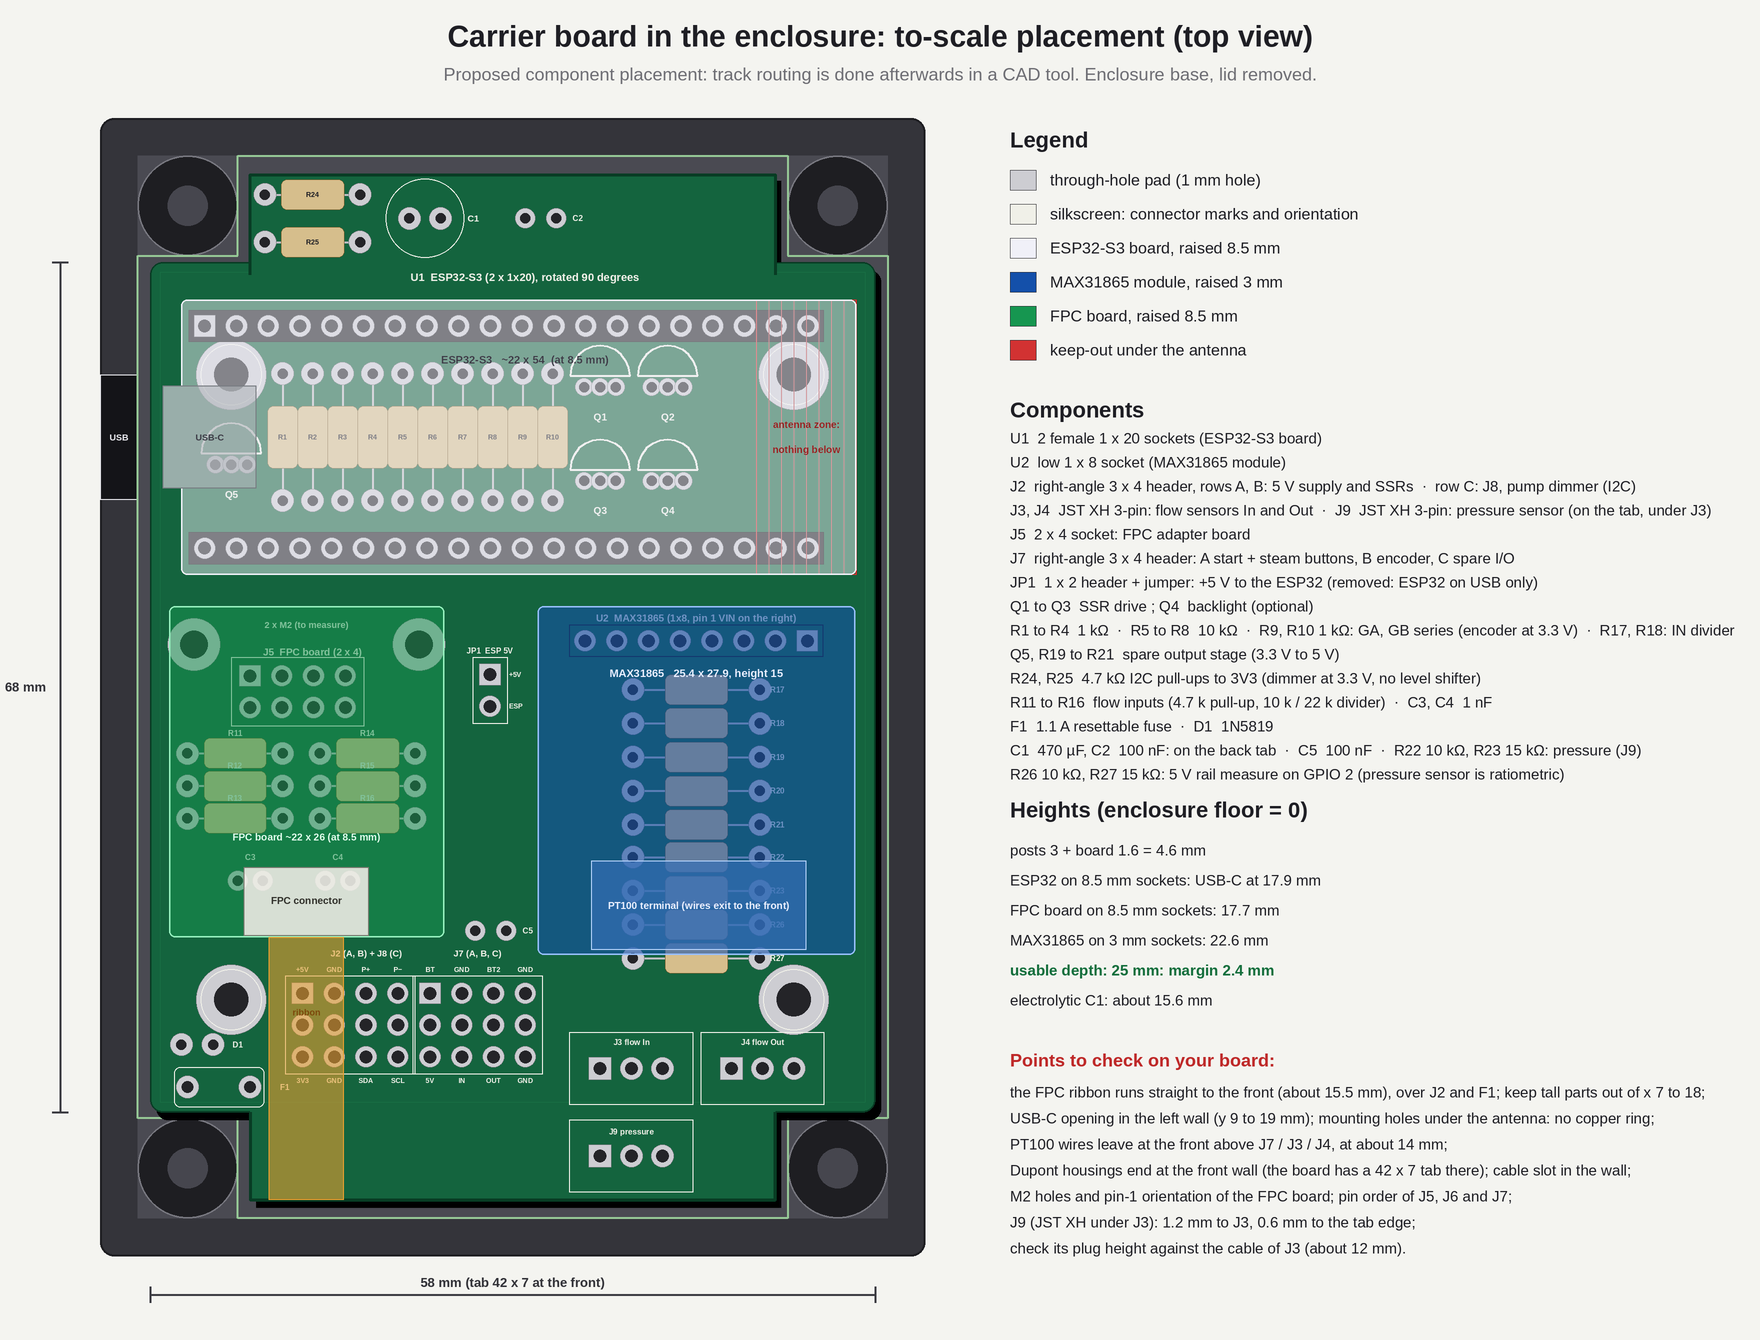
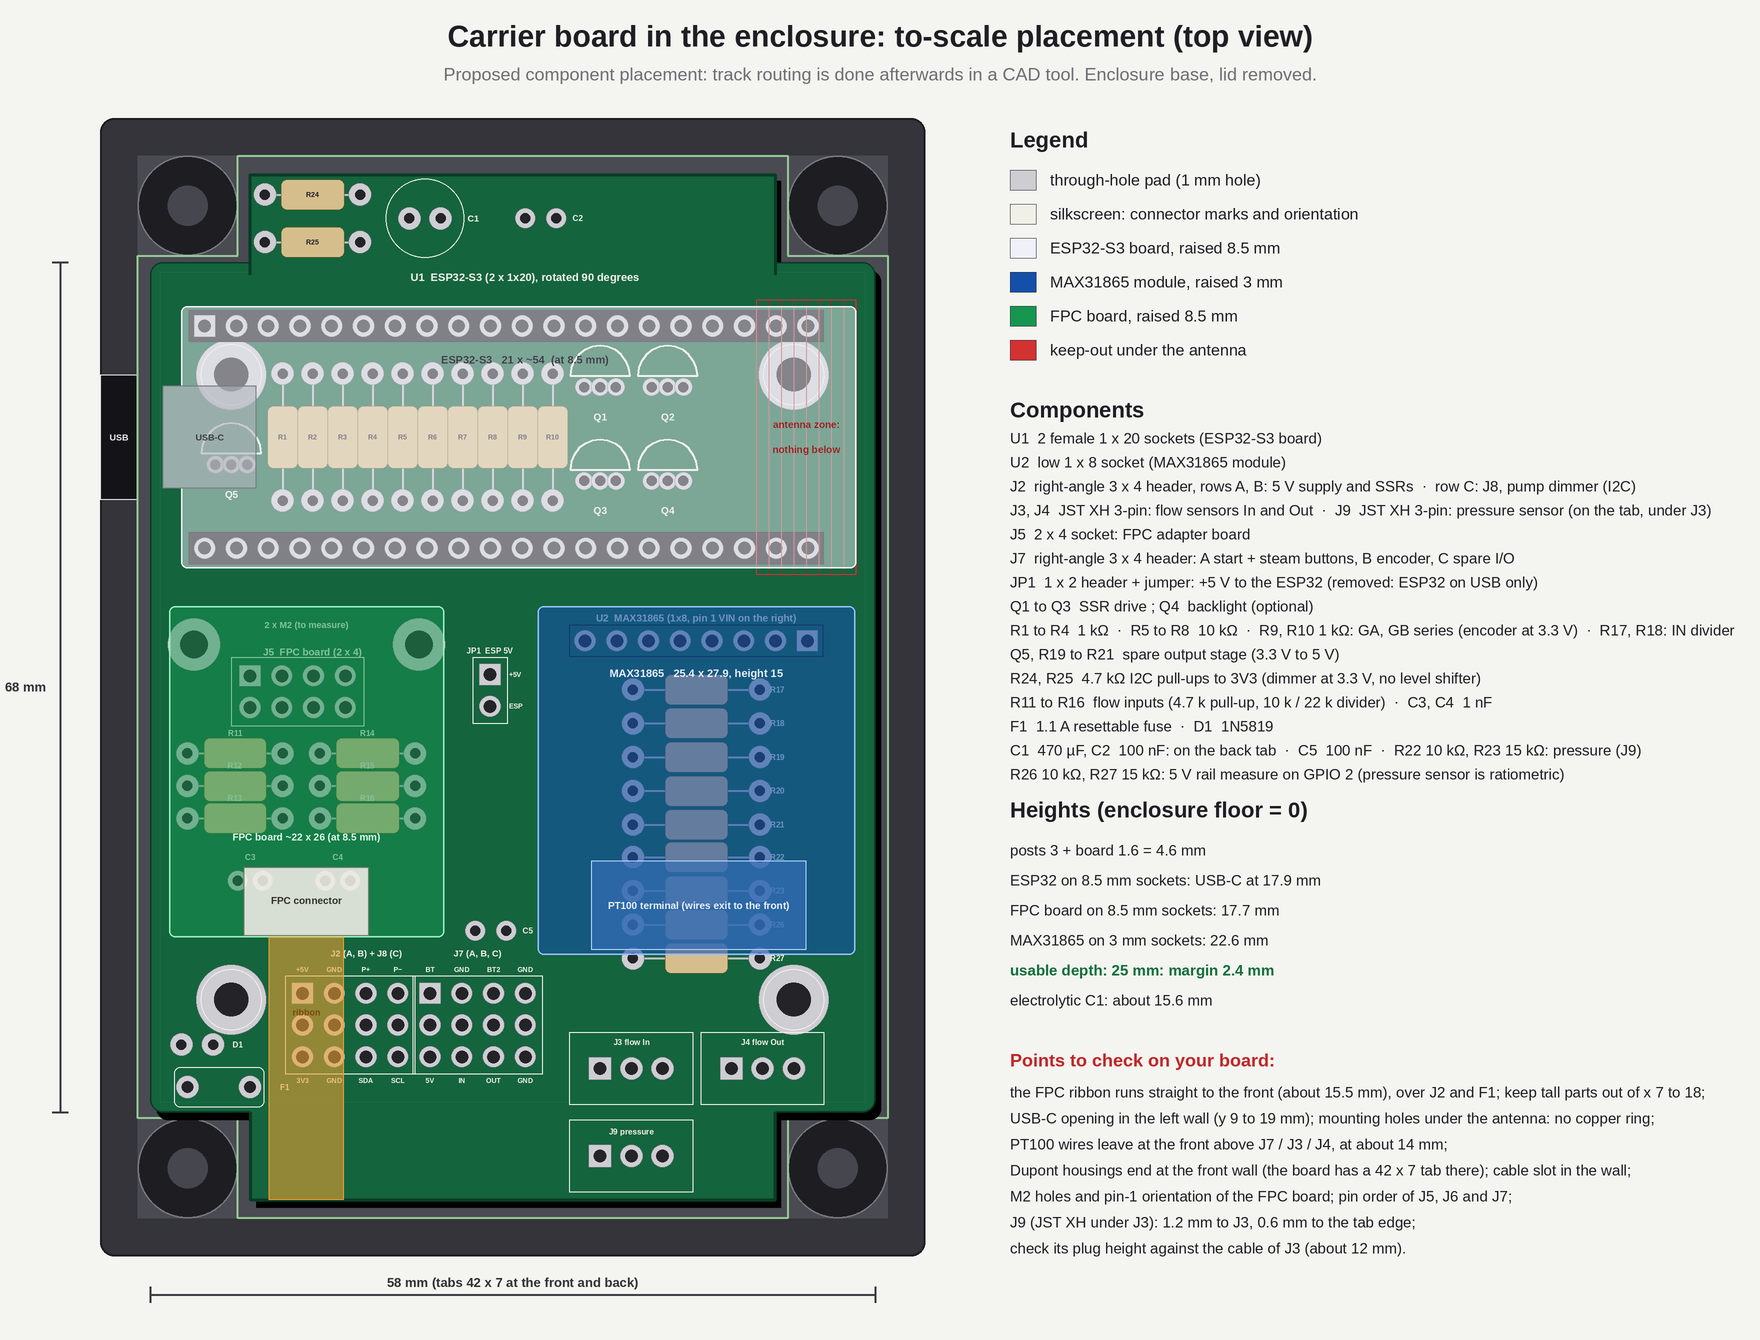
ESP32-S3 board measured (21 mm wide, 2 x 20, rows 17.78 mm); Digmesa Nano for flow Out; 0 ohm encoder hack done
Claude-Session: https://claude.ai/code/session_012AnZeUFZeKvHXGUDRfJG7Q

Changed region(s): [[0.0938, 0.2142, 0.5, 0.2448], [0.0938, 0.3978, 0.4688, 0.4284], [0.2188, 0.9485, 0.3438, 0.9791]]

diff --git a/tools/board_placement.py b/tools/board_placement.py
@@ -234,10 +234,10 @@ rect(d, X(38.5) - 4.95 * K, Y(71.5) - 2.9 * K, X(38.5) + 4.95 * K, Y(71.5) + 2.9
 text(d, X(38.5), Y(69.55), "J9 pressure", 8, SILK, True)
 
 # ---------------------------------------------------------------- the raised boards, translucent (they hide nothing)
-# ESP32-S3 board ~22 x 54 at x 2.5..56.5, y 3..25 (rotated 90 degrees, USB-C to the left)
-rrect(o, px(X(2.5)) / SS, px(Y(3.0)) / SS, px(X(56.5)) / SS, px(Y(25.0)) / SS, 6, fill=(240, 240, 248, 120), outline=(240, 240, 248, 255), width=3)
+# ESP32-S3 board 21 x ~54 (width and row spacing measured) at x 2.5..56.5, y 3.5..24.5 (rotated 90 degrees, USB-C to the left)
+rrect(o, px(X(2.5)) / SS, px(Y(3.5)) / SS, px(X(56.5)) / SS, px(Y(24.5)) / SS, 6, fill=(240, 240, 248, 120), outline=(240, 240, 248, 255), width=3)
 rect(o, px(X(1.0)) / SS, px(Y(9.9)) / SS, px(X(8.5)) / SS, px(Y(18.1)) / SS, fill=(190, 194, 200, 200), outline=(120, 124, 130, 255), width=2)
-text(o, X(30.0), Y(7.8), "ESP32-S3   ~22 x 54  (at 8.5 mm)", 11, (60, 60, 70), True)
+text(o, X(30.0), Y(7.8), "ESP32-S3   21 x ~54  (at 8.5 mm)", 11, (60, 60, 70), True)
 text(o, X(52.5), Y(13.0), "antenna zone:", 10, (150, 30, 30), True)
 text(o, X(52.5), Y(15.0), "nothing below", 10, (150, 30, 30), True)
 text(o, X(4.8), Y(14.0), "USB-C", 9, (60, 60, 70), True)
@@ -268,7 +268,7 @@ def dim_v(x, y0, y1, label):
     for yy in (y0, y1):
         line(d, [(X(x) - 8, Y(yy)), (X(x) + 8, Y(yy))], (60, 60, 66), 2)
     d.text((px(X(x) - 14), px(Y((y0 + y1) / 2))), label, font=F(13, True), fill=(50, 50, 56), anchor='rm')
-dim_h(0, 58, 82.6, "58 mm (tab 42 x 7 at the front)")
+dim_h(0, 58, 82.6, "58 mm (tabs 42 x 7 at the front and back)")
 dim_v(-7.2, 0, 68, "68 mm")
 
 # ---------------------------------------------------------------- legend, to the right

diff --git a/tools/enclosure_overview.py b/tools/enclosure_overview.py
@@ -129,11 +129,11 @@ cuboid(CX0, CY0, PCB_Z, 58, 68, PCBT, (22, 110, 66))
 cuboid(CX0 + 8, CY0 + 68, PCB_Z, 42, 7, PCBT, (22, 110, 66))          # front tab (cable side)
 cuboid(CX0 + 8, CY0 - 7, PCB_Z, 42, 7, PCBT, (22, 110, 66))           # back tab (C1, C2)
 
-# ESP32-S3 (~22 x 54) rotated 90 degrees on sockets of 8.5 mm: USB-C towards the left wall
-ex, ey = CX0 + 2.5, CY0 + 3
+# ESP32-S3 (21 x ~54) rotated 90 degrees on sockets of 8.5 mm: USB-C towards the left wall
+ex, ey = CX0 + 2.5, CY0 + 3.5
 cuboid(CX0 + 3.1, CY0 + 5.11 - 1.2, top, 50.8, 2.4, 8.5, BLACK)
 cuboid(CX0 + 3.1, CY0 + 22.89 - 1.2, top, 50.8, 2.4, 8.5, BLACK)
-cuboid(ex, ey, top + 8.5, 54, 22, 1.6, (236, 236, 242))
+cuboid(ex, ey, top + 8.5, 54, 21, 1.6, (236, 236, 242))
 cuboid(CX0 + 1.0, CY0 + 9.9, top + 8.5 + 1.6, 7.5, 8.2, 3.2, (190, 194, 200))        # USB-C
 cuboid(CX0 + 22, CY0 + 9.5, top + 8.5 + 1.6, 9, 9, 1.0, BLACK)                        # the module (shield)
 cuboid(CX0 + 48.5, CY0 + 6, top + 8.5 + 1.6, 7.5, 16, 0.8, (236, 226, 196))           # antenna

diff --git a/docs/carrier_spec.md b/docs/carrier_spec.md
@@ -23,14 +23,14 @@ All **through-hole** parts (no SMD soldering). Related files: `images/board_plac
 | Ref | Type | Role |
 |---|---|---|
 | J2 | rows A and B of a **3 x 4 right-angle male header** (one 2 x 4 female Dupont housing, two ribbons of 4 wires) | 5 V supply + 3 SSRs |
-| J3, J4 | JST XH 3-pin, vertical, rotated (real pitch 2.5 mm) | flow sensors In and Out |
+| J3, J4 | JST XH 3-pin, vertical, rotated (real pitch 2.5 mm) | flow sensors In (USN-HS06PD) and Out (Digmesa Nano) |
 | J5 | 2 x 4 female socket | FPC adapter board (8 pins, ribbon to the remote display) |
 | J6 | 1 x 8 female socket (low, 3 mm) | MAX31865 module |
 | J7 | a **3 x 4 right-angle male header** | row A: start button + steam-mode button; row B: encoder (powered from **3.3 V**); row C: 4 spare I/O pins (+5 V, level-adapted input, level-adapted output, GND) |
 | J8 | row C (the lowest) of the J2 header, 4 pins | RobotDyn 4 A pump dimmer, **I2C** (powered from **3.3 V**, no level shifter) |
 | J9 | JST XH 3-pin, vertical, on the tab right under J3 (centre x 38.5, y 71.5) | pressure sensor 0.5 to 4.5 V, 0 to 12 bar (powered from 5 V) |
 | JP1 | 1 x 2 male header + shunt jumper | +5 V board to the 5V pin of the ESP32 (see Circuits) |
-| ESP | 2 x 1 x 20 female sockets | ESP32-S3 board (about 22 x 54 mm from the photo; row spacing to be measured) |
+| ESP | 2 x 1 x 20 female sockets | ESP32-S3 board (21 mm wide, measured; about 54 mm long; 2 x 20 pins, rows 17.78 mm apart, confirmed) |
 
 ### J2 (rows A and B of the 3 x 4 header: row A at the back, row B below it, row C = J8 at the bottom; pin 1 on the left)
 | | 1 | 2 | 3 | 4 |
@@ -123,6 +123,7 @@ Silkscreen read on the photo, left column from the USB-C end: GND, 5V, G48, BOOT
 - **SSR (x3):** GPIO → 1 kΩ → 2N2222A base; 10 kΩ base → GND; SSR "+" input to the +5 V rail, "−" input to the collector; emitter to GND. The SSR input receives about 4.4 V (rail about 4.6 V minus about 0.2 V across the transistor), well above the usual 3 V minimum of a DC-input SSR.
 - **Flow sensor (x2):** signal → **4.7 kΩ to +5 V**; signal → **10 kΩ** → GPIO; GPIO → **22 kΩ** → GND; 1 nF GPIO → GND. With a 5 V push-pull output the GPIO sees 5 x 22 / 32 = 3.4 V; with an open collector the pull-up is loaded by the divider and the GPIO sees 5 x 22 / (4.7 + 10 + 22) = 3.0 V; with a sensor that has its own internal pull-up, between the two. (The former values, 10 kΩ pull-up and 4.7 kΩ / 10 kΩ divider, gave only 2.0 V with an open collector, below the ESP32 input-high threshold of about 2.5 V.) The low level (0.5 V max at the sensor) gives under 0.35 V.
 - **Flow In sensor (J3): USN-HS06PD** (Hall sensor, 6 mm tube, 0.1 to 1.5 l/min, F (Hz) = 200 x Q (l/min), i.e. 12,000 pulses per litre, 300 Hz max; supply 5 to 24 V, under 10 mA; output high at least 4.5 V and low at most 0.5 V at 5 V; duty cycle 50 ± 10 %; -20 to 60 °C; **working pressure under 0.8 MPa (8 bar)**, so it must stay on the low-pressure side, between the tank and the pump; XH 2.54 plug, wire order varies by batch: check it). Its lower limit, 0.1 l/min = 1.7 ml/s, is below the pump flow during an extraction (about 4 ml/s measured at the inlet), so it works in range.
+- **Flow Out sensor (J4): Digmesa Nano** (brass, 1.2 mm nozzle; 31,100 pulses per litre, linear 0.83 to 8.3 ml/s, so 258 Hz max; ±2 %; 0 to 100 °C; 20 bar), on the boiler side. Its turbine counts in both flow directions: the firmware ignores its pulses while the pump is stopped. Its output type does not matter, the input circuit above suits it.
 - **Display backlight:** BLK ← GPIO 14 directly (the display module has its own transistor). Optional stage Q4: GPIO 14 → 1 kΩ → 2N2222A base, not fitted by default.
 - **Encoder / buttons:** see "Encoder and 5 V input protection". **No RC filter on GA / GB:** the encoder library's interrupt routine expects every rising and falling edge, bounces included, and debounces in software; the two buttons are debounced in the firmware too.
 
@@ -148,7 +149,7 @@ Silkscreen read on the photo, left column from the USB-C end: GND, 5V, G48, BOOT
 ## Points to confirm before manufacturing
 1. Display ribbon (J5): the pinout of the module is known (BLK, CS, DC, RES, SDA, SCL, VCC, GND); still to confirm the ribbon type (straight or reversed contacts) and the adapter's FPC-pin-to-header mapping, and the backlight polarity of BLK.
 2. Encoder: pin order GA, GB, VCC, GND confirmed (Funduino data sheet); pull-ups measured, 6.6 kΩ to VCC (3.3 kΩ resistors); the two end components on the module are not identified (capacitor or push resistor).
-3. Pin spacing (rows and pitch) and true width of your ESP32-S3 board.
+3. ESP32-S3 board: **confirmed**, 2 x 20 pins, rows 17.78 mm apart, 21 mm wide.
 4. Dimensions of your FPC adapter board (about 22 x 26 mm estimated) and position of its mounting holes.
 5. Flow sensors: the In sensor is a USN-HS06PD (5 V output, high at least 4.5 V); the circuit (4.7 kΩ pull-up, 10 kΩ / 22 kΩ divider) suits 5 V outputs, open collectors and internal pull-ups; check the wire order of the XH plug (it varies by batch).
 6. MAX31865 module (Adafruit, measured from the manufacturer's drawing): 25.4 x 27.9 mm, mounting holes 0.9" apart and 0.1" from the terminal-block edge, 1 x 8 header at 0.1" pitch on the short edge.
@@ -157,4 +158,4 @@ Silkscreen read on the photo, left column from the USB-C end: GND, 5V, G48, BOOT
 9. USB-C opening in the left wall (y 9 to 19 mm) and the USB cable bend outside the box.
 10. Display ribbon: length, thickness and pin-1 orientation of your FPC adapter board; the column x 7 to 18 mm in front of it must stay free of tall parts.
 11. MAX31865: powered from 3.3 V, so SDO is 3.3 V (settled).
-12. Rotary knob (CJMCU-111, photo: pins GA, GB, VCC, GND): the push is on the GA line through a 3 kΩ resistor; the firmware's encoder library handles it from the GA / GB edges (as on the Nano). Pull-ups measured: 6.6 kΩ from GA / GB to VCC. Optional alternative from the library note: bridge the 3 kΩ with 330 Ω and read GA as an analog level (GPIO 4 is ADC-capable and the 4.7 kΩ / 10 kΩ divider keeps the information). On the ESP32, `analogRead()` must not be called inside an interrupt routine (the ADC driver takes a lock): with this option, the ISR only flags the event and the analog read is done in the loop or a task. The simple 0 Ω hack has no such constraint.
+12. Rotary knob (CJMCU-111, photo: pins GA, GB, VCC, GND): the push is on the GA line through a 3 kΩ resistor; the firmware's encoder library handles it from the GA / GB edges (as on the Nano). Pull-ups measured: 6.6 kΩ from GA / GB to VCC. **Done: the 0 Ω hack** (push resistor bridged, pins 4 and 1), required with the encoder at 3.3 V. The library's analog alternative (330 Ω and an analog read of GA) is not kept: with the 3.3 kΩ pull-up at 3.3 V a push would give only about 0.3 V against 0 V for a rotation step, too close to tell apart reliably on the ESP32 ADC (and `analogRead()` must not be called inside an interrupt routine on the ESP32).
